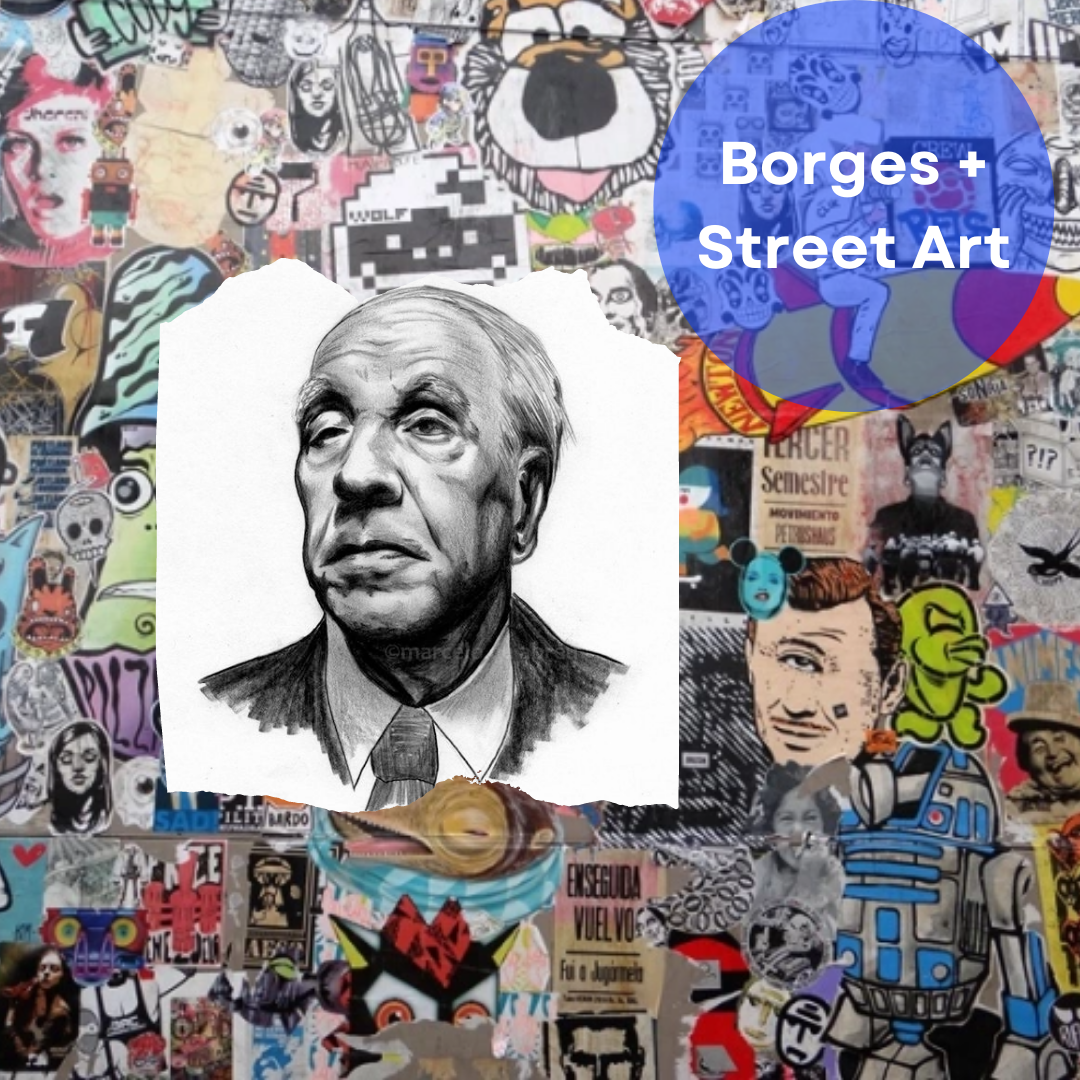
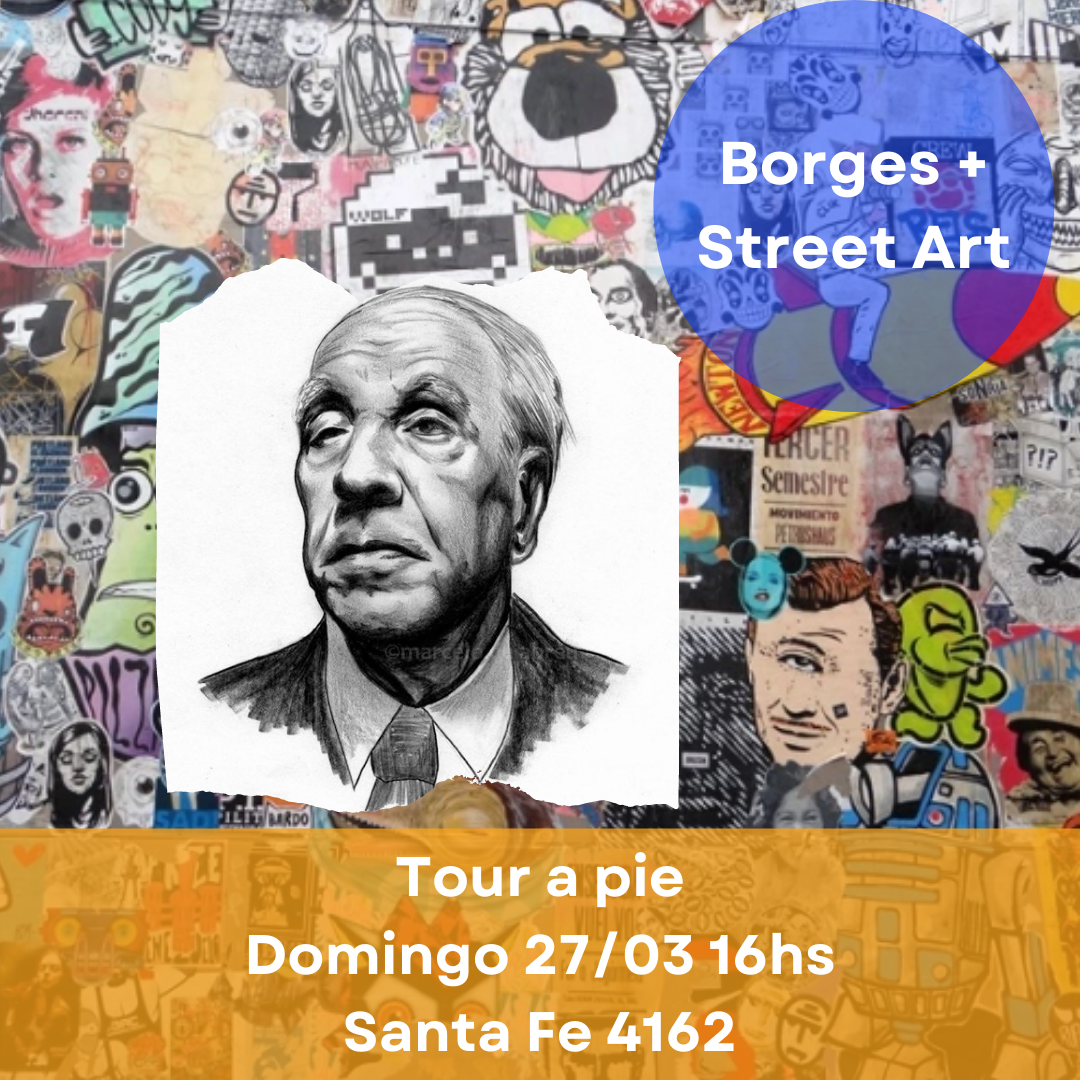
correction 2

Changed region(s): [[0.0, 0.7639, 1.0, 1.0]]

diff --git a/index.md b/index.md
@@ -3,7 +3,7 @@ layout: homebsas
 author_profile: true
 ---
 
-
+# Proximo tours
 
 ## Street art + Borges
 
